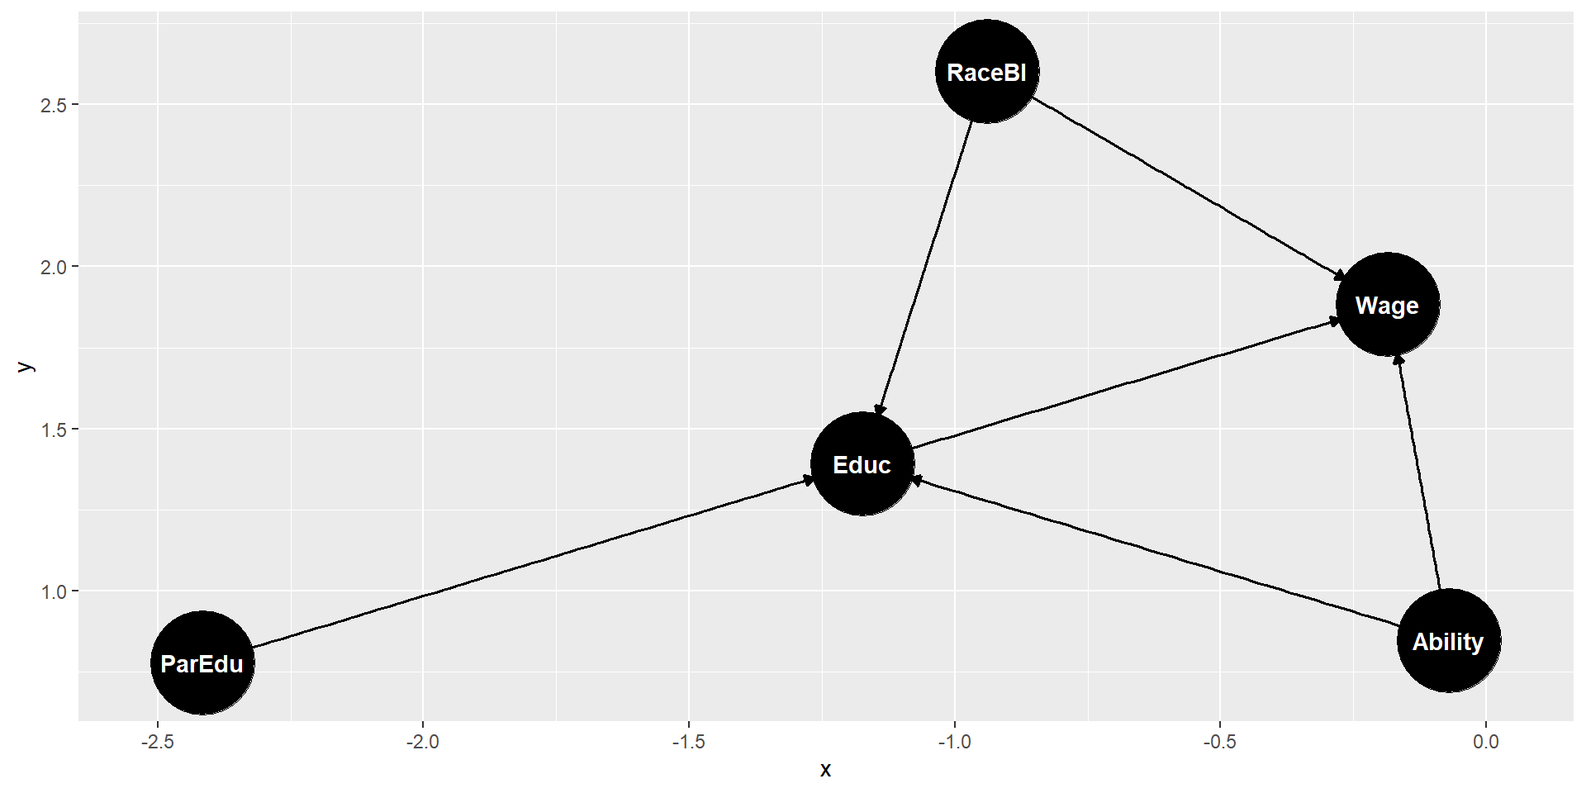
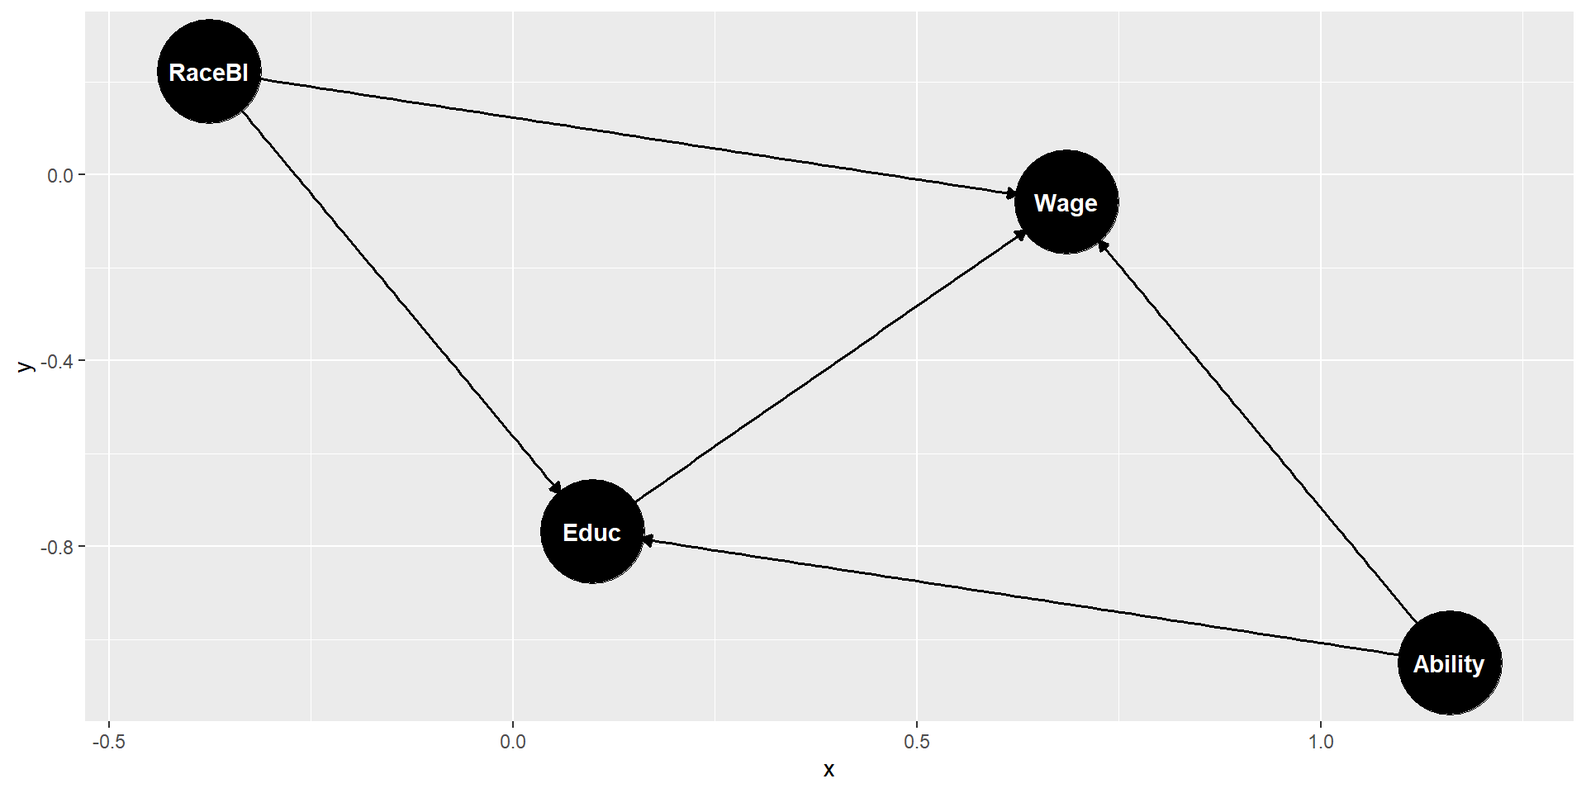
I finished the details on Gauss on the day of class.

diff --git a/GaussMarkowIBM/GaussMarkowIBM-speaker.html b/GaussMarkowIBM/GaussMarkowIBM-speaker.html
@@ -493,11 +493,11 @@
 <li><p>However, predictions are not.</p></li>
 <li><p>Coefficients <span class="math inline">\((\beta s)\)</span> are sensitive to small changes in data.</p></li>
 </ul>
-<p><strong>Identify:</strong> VIF between an independent variables <span class="math inline">\(i\)</span> regressed on all other variables should be less than <span class="math inline">\(10\)</span> (some authors use less than 5): <span class="math inline">\(VIF=\frac{1}{1-R^2_{i}}\)</span></p>
+<p><strong>Identify:</strong> VIF between an independent variables <span class="math inline">\(i\)</span> regressed on all other variables should be less than <span class="math inline">\(10\)</span> (some authors use less than 5): <span class="math inline">\(VIF_i=\frac{1}{1-R^2_{i}}\)</span></p>
 <p><strong>Remedy:</strong></p>
 <ul>
 <li><p>Do nothing</p></li>
-<li><p>Eliminate variable(s) that are correlated with others step wise (!)</p></li>
+<li><p>Eliminate variable(s) that are correlated with others — step wise (!)</p></li>
 <li><p>Others</p></li>
 </ul>
 </section>
@@ -708,7 +708,7 @@ F-statistic:  38.8 on 3 and 718 DF,  p-value: &lt; 2.2e-16</code></pre>
 <p><strong>Endogenity:</strong> Error term is correlated with one or more of the independent (predictor) variables.</p>
 <p><strong>If not fulfilled:</strong> Coefficients <span class="math inline">\((\beta s)\)</span> are biased and inconsistent.</p>
 <p><strong>Identify:</strong> Difficult, because if estimate is biased errors are also biased and cannot be used to test for correlation with predictors.</p>
-<p>If domain knowledge indicates endegenity, try IV Regression and see the results of the <em>Durbin-Wu-Hasumann</em> (<em>DWH</em>) test.</p>
+<p>If domain knowledge indicates endegenity, try IV Regression and see the results of the <em>Durbin-Wu-Hausmann</em> (<em>DWH</em>) test.</p>
 <p><strong>Remedy:</strong></p>
 <ul>
 <li><p>Do nothing</p></li>
@@ -722,8 +722,7 @@ F-statistic:  38.8 on 3 and 718 DF,  p-value: &lt; 2.2e-16</code></pre>
 <span id="cb21-2"><a href="#cb21-2"></a><span class="fu">set.seed</span>(<span class="dv">123</span>)</span>
 <span id="cb21-3"><a href="#cb21-3"></a><span class="fu">dagify</span>(Wage<span class="sc">~</span>Educ<span class="sc">+</span>Ability<span class="sc">+</span>RaceBl,</span>
 <span id="cb21-4"><a href="#cb21-4"></a>       Educ<span class="sc">~</span>Ability,</span>
-<span id="cb21-5"><a href="#cb21-5"></a>       Educ<span class="sc">~</span>ParEdu,</span>
-<span id="cb21-6"><a href="#cb21-6"></a>       Educ<span class="sc">~</span>RaceBl) <span class="sc">|&gt;</span> <span class="fu">ggdag</span>(<span class="at">node_size =</span> <span class="dv">22</span>)</span></code><button title="Copy to Clipboard" class="code-copy-button"><i class="bi"></i></button></pre></div>
+<span id="cb21-5"><a href="#cb21-5"></a>       Educ<span class="sc">~</span>RaceBl) <span class="sc">|&gt;</span> <span class="fu">ggdag</span>(<span class="at">node_size =</span> <span class="dv">22</span>)</span></code><button title="Copy to Clipboard" class="code-copy-button"><i class="bi"></i></button></pre></div>
 </div>
 
 </section>
@@ -822,8 +821,15 @@ F-statistic: 47.31 on 2 and 719 DF,  p-value: &lt; 2.2e-16</code></pre>
 <h2>Heteroscedasticity</h2>
 <h3 id="overview">Overview</h3>
 <p><strong>If not fulfilled:</strong> Standard errors and thus P values are incorrect.</p>
-<p><strong>Identify:</strong> Visual inspection of residuals. White test.</p>
-<p><strong>Remedy:</strong> White robust standard errors</p>
+<p><strong>Identify:</strong></p>
+<ul>
+<li><p>Visual inspection of residuals.</p></li>
+<li><p>White test.</p></li>
+</ul>
+<p><strong>Remedy:</strong> - White robust standard errors</p>
+<ul>
+<li>Generalized Least Square (weighs observation with variance, if it is known.)</li>
+</ul>
 </section>
 <section id="heteroscedasticity-1" class="slide level2">
 <h2>Heteroscedasticity</h2>
@@ -834,8 +840,9 @@ F-statistic: 47.31 on 2 and 719 DF,  p-value: &lt; 2.2e-16</code></pre>
 <summary>Code</summary>
 <div class="sourceCode cell-code" id="cb27"><pre class="sourceCode numberSource r number-lines code-with-copy"><code class="sourceCode r"><span id="cb27-1"><a href="#cb27-1"></a>DataPlot<span class="ot">=</span><span class="fu">augment</span>(ModelWageEdiIV)</span>
 <span id="cb27-2"><a href="#cb27-2"></a></span>
-<span id="cb27-3"><a href="#cb27-3"></a><span class="fu">ggplot</span>(DataPlot, <span class="fu">aes</span>(<span class="at">x=</span>LogWage, <span class="at">y=</span>.resid))<span class="sc">+</span></span>
-<span id="cb27-4"><a href="#cb27-4"></a>  <span class="fu">geom_point</span>(<span class="at">alpha=</span><span class="fl">0.2</span>)</span></code><button title="Copy to Clipboard" class="code-copy-button"><i class="bi"></i></button></pre></div>
+<span id="cb27-3"><a href="#cb27-3"></a><span class="fu">ggplot</span>(DataPlot, <span class="fu">aes</span>(<span class="at">x=</span>,.fitted, <span class="at">y=</span>.resid))<span class="sc">+</span></span>
+<span id="cb27-4"><a href="#cb27-4"></a>  <span class="fu">geom_point</span>(<span class="at">alpha=</span><span class="fl">0.2</span>)<span class="sc">+</span></span>
+<span id="cb27-5"><a href="#cb27-5"></a>  <span class="fu">labs</span>(<span class="at">x =</span> <span class="st">"LogWage (estimated)"</span>)</span></code><button title="Copy to Clipboard" class="code-copy-button"><i class="bi"></i></button></pre></div>
 </details>
 
 </div>
@@ -859,24 +866,25 @@ F-statistic: 47.31 on 2 and 719 DF,  p-value: &lt; 2.2e-16</code></pre>
 <details>
 <summary>Code</summary>
 <div class="sourceCode cell-code" id="cb29"><pre class="sourceCode numberSource r number-lines code-with-copy"><code class="sourceCode r"><span id="cb29-1"><a href="#cb29-1"></a>DataPlot<span class="ot">=</span><span class="fu">augment</span>(ModelHouses) <span class="sc">|&gt;</span> </span>
-<span id="cb29-2"><a href="#cb29-2"></a>         <span class="fu">mutate</span>(<span class="at">Category=</span><span class="fu">case_when</span>(Price<span class="sc">&lt;</span><span class="dv">500000</span><span class="sc">~</span><span class="dv">1</span>,</span>
-<span id="cb29-3"><a href="#cb29-3"></a>                                  Price<span class="sc">&lt;</span><span class="dv">1000000</span><span class="sc">~</span><span class="dv">2</span>,</span>
-<span id="cb29-4"><a href="#cb29-4"></a>                                  Price<span class="sc">&lt;</span><span class="dv">1500000</span><span class="sc">~</span><span class="dv">3</span>,</span>
-<span id="cb29-5"><a href="#cb29-5"></a>                                  Price<span class="sc">&lt;</span><span class="dv">2000000</span><span class="sc">~</span><span class="dv">4</span>,</span>
-<span id="cb29-6"><a href="#cb29-6"></a>                                  Price<span class="sc">&lt;</span><span class="dv">2500000</span><span class="sc">~</span><span class="dv">5</span>,</span>
-<span id="cb29-7"><a href="#cb29-7"></a>                                  Price<span class="sc">&lt;</span><span class="dv">3000000</span><span class="sc">~</span><span class="dv">6</span>,</span>
+<span id="cb29-2"><a href="#cb29-2"></a>         <span class="fu">mutate</span>(<span class="at">Category=</span><span class="fu">case_when</span>(.fitted<span class="sc">&lt;</span><span class="dv">500000</span><span class="sc">~</span><span class="dv">1</span>,</span>
+<span id="cb29-3"><a href="#cb29-3"></a>                                  .fitted<span class="sc">&lt;</span><span class="dv">1000000</span><span class="sc">~</span><span class="dv">2</span>,</span>
+<span id="cb29-4"><a href="#cb29-4"></a>                                  .fitted<span class="sc">&lt;</span><span class="dv">1500000</span><span class="sc">~</span><span class="dv">3</span>,</span>
+<span id="cb29-5"><a href="#cb29-5"></a>                                  .fitted<span class="sc">&lt;</span><span class="dv">2000000</span><span class="sc">~</span><span class="dv">4</span>,</span>
+<span id="cb29-6"><a href="#cb29-6"></a>                                  .fitted<span class="sc">&lt;</span><span class="dv">2500000</span><span class="sc">~</span><span class="dv">5</span>,</span>
+<span id="cb29-7"><a href="#cb29-7"></a>                                  .fitted<span class="sc">&lt;</span><span class="dv">3000000</span><span class="sc">~</span><span class="dv">6</span>,</span>
 <span id="cb29-8"><a href="#cb29-8"></a>                                  <span class="cn">TRUE</span><span class="sc">~</span><span class="dv">7</span>)) <span class="sc">|&gt;</span></span>
 <span id="cb29-9"><a href="#cb29-9"></a>         <span class="fu">group_by</span>(Category) <span class="sc">|&gt;</span>  </span>
 <span id="cb29-10"><a href="#cb29-10"></a>         <span class="fu">mutate</span>(<span class="at">TwoSDHigh=</span><span class="fu">mean</span>(.resid)<span class="sc">+</span><span class="dv">2</span><span class="sc">*</span><span class="fu">sd</span>(.resid)) <span class="sc">|&gt;</span> </span>
 <span id="cb29-11"><a href="#cb29-11"></a>         <span class="fu">mutate</span>(<span class="at">TwoSDLow=</span><span class="fu">mean</span>(.resid)<span class="sc">-</span><span class="dv">2</span><span class="sc">*</span><span class="fu">sd</span>(.resid))</span>
 <span id="cb29-12"><a href="#cb29-12"></a></span>
 <span id="cb29-13"><a href="#cb29-13"></a><span class="fu">ggplot</span>(DataPlot)<span class="sc">+</span></span>
-<span id="cb29-14"><a href="#cb29-14"></a>  <span class="fu">geom_point</span>(<span class="fu">aes</span>(<span class="at">x=</span>Price, <span class="at">y=</span>.resid, <span class="at">color=</span><span class="st">"Residuals"</span>), <span class="at">alpha=</span><span class="fl">0.2</span>)<span class="sc">+</span></span>
-<span id="cb29-15"><a href="#cb29-15"></a>  <span class="fu">geom_point</span>(<span class="fu">aes</span>(<span class="at">x=</span>Price, <span class="at">y=</span>TwoSDLow, <span class="at">color=</span><span class="st">"Mean - 2 SD"</span>))<span class="sc">+</span></span>
-<span id="cb29-16"><a href="#cb29-16"></a>  <span class="fu">geom_point</span>(<span class="fu">aes</span>(<span class="at">x=</span>Price, <span class="at">y=</span>TwoSDHigh, <span class="at">color=</span><span class="st">"Mean + 2 SD"</span>))<span class="sc">+</span></span>
+<span id="cb29-14"><a href="#cb29-14"></a>  <span class="fu">geom_point</span>(<span class="fu">aes</span>(<span class="at">x=</span>.fitted, <span class="at">y=</span>.resid, <span class="at">color=</span><span class="st">"Residuals"</span>), <span class="at">alpha=</span><span class="fl">0.2</span>)<span class="sc">+</span></span>
+<span id="cb29-15"><a href="#cb29-15"></a>  <span class="fu">geom_point</span>(<span class="fu">aes</span>(<span class="at">x=</span>.fitted, <span class="at">y=</span>TwoSDLow, <span class="at">color=</span><span class="st">"Mean - 2 SD"</span>))<span class="sc">+</span></span>
+<span id="cb29-16"><a href="#cb29-16"></a>  <span class="fu">geom_point</span>(<span class="fu">aes</span>(<span class="at">x=</span>.fitted, <span class="at">y=</span>TwoSDHigh, <span class="at">color=</span><span class="st">"Mean + 2 SD"</span>))<span class="sc">+</span></span>
 <span id="cb29-17"><a href="#cb29-17"></a>  <span class="fu">scale_color_manual</span>(<span class="at">values =</span> <span class="fu">c</span>(<span class="st">"Residuals"</span> <span class="ot">=</span> <span class="st">"black"</span>, <span class="st">"Mean - 2 SD"</span> <span class="ot">=</span> <span class="st">"orange"</span>, <span class="st">"Mean + 2 SD"</span> <span class="ot">=</span> <span class="st">"red"</span>)) <span class="sc">+</span></span>
-<span id="cb29-18"><a href="#cb29-18"></a>  <span class="fu">scale_x_continuous</span>(<span class="at">limits =</span> <span class="fu">c</span>(<span class="dv">0</span>,<span class="dv">3000000</span>))<span class="sc">+</span></span>
-<span id="cb29-19"><a href="#cb29-19"></a>  <span class="fu">scale_y_continuous</span>(<span class="at">limits =</span> <span class="fu">c</span>(<span class="sc">-</span><span class="dv">2000000</span>,<span class="dv">3000000</span>))</span></code><button title="Copy to Clipboard" class="code-copy-button"><i class="bi"></i></button></pre></div>
+<span id="cb29-18"><a href="#cb29-18"></a>  <span class="fu">scale_x_continuous</span>(<span class="at">limits =</span> <span class="fu">c</span>(<span class="dv">0</span>,<span class="dv">2500000</span>))<span class="sc">+</span></span>
+<span id="cb29-19"><a href="#cb29-19"></a>  <span class="fu">scale_y_continuous</span>(<span class="at">limits =</span> <span class="fu">c</span>(<span class="sc">-</span><span class="dv">2000000</span>,<span class="dv">5000000</span>))<span class="sc">+</span></span>
+<span id="cb29-20"><a href="#cb29-20"></a>  <span class="fu">labs</span>(<span class="at">x =</span> <span class="st">"Price (estimated)"</span>)</span></code><button title="Copy to Clipboard" class="code-copy-button"><i class="bi"></i></button></pre></div>
 </details>
 
 </div>

diff --git a/GaussMarkowIBM/GaussMarkowIBM.html b/GaussMarkowIBM/GaussMarkowIBM.html
@@ -493,11 +493,11 @@
 <li><p>However, predictions are not.</p></li>
 <li><p>Coefficients <span class="math inline">\((\beta s)\)</span> are sensitive to small changes in data.</p></li>
 </ul>
-<p><strong>Identify:</strong> VIF between an independent variables <span class="math inline">\(i\)</span> regressed on all other variables should be less than <span class="math inline">\(10\)</span> (some authors use less than 5): <span class="math inline">\(VIF=\frac{1}{1-R^2_{i}}\)</span></p>
+<p><strong>Identify:</strong> VIF between an independent variables <span class="math inline">\(i\)</span> regressed on all other variables should be less than <span class="math inline">\(10\)</span> (some authors use less than 5): <span class="math inline">\(VIF_i=\frac{1}{1-R^2_{i}}\)</span></p>
 <p><strong>Remedy:</strong></p>
 <ul>
 <li><p>Do nothing</p></li>
-<li><p>Eliminate variable(s) that are correlated with others step wise (!)</p></li>
+<li><p>Eliminate variable(s) that are correlated with others — step wise (!)</p></li>
 <li><p>Others</p></li>
 </ul>
 </section>
@@ -708,7 +708,7 @@ F-statistic:  38.8 on 3 and 718 DF,  p-value: &lt; 2.2e-16</code></pre>
 <p><strong>Endogenity:</strong> Error term is correlated with one or more of the independent (predictor) variables.</p>
 <p><strong>If not fulfilled:</strong> Coefficients <span class="math inline">\((\beta s)\)</span> are biased and inconsistent.</p>
 <p><strong>Identify:</strong> Difficult, because if estimate is biased errors are also biased and cannot be used to test for correlation with predictors.</p>
-<p>If domain knowledge indicates endegenity, try IV Regression and see the results of the <em>Durbin-Wu-Hasumann</em> (<em>DWH</em>) test.</p>
+<p>If domain knowledge indicates endegenity, try IV Regression and see the results of the <em>Durbin-Wu-Hausmann</em> (<em>DWH</em>) test.</p>
 <p><strong>Remedy:</strong></p>
 <ul>
 <li><p>Do nothing</p></li>
@@ -722,8 +722,7 @@ F-statistic:  38.8 on 3 and 718 DF,  p-value: &lt; 2.2e-16</code></pre>
 <span id="cb21-2"><a href="#cb21-2"></a><span class="fu">set.seed</span>(<span class="dv">123</span>)</span>
 <span id="cb21-3"><a href="#cb21-3"></a><span class="fu">dagify</span>(Wage<span class="sc">~</span>Educ<span class="sc">+</span>Ability<span class="sc">+</span>RaceBl,</span>
 <span id="cb21-4"><a href="#cb21-4"></a>       Educ<span class="sc">~</span>Ability,</span>
-<span id="cb21-5"><a href="#cb21-5"></a>       Educ<span class="sc">~</span>ParEdu,</span>
-<span id="cb21-6"><a href="#cb21-6"></a>       Educ<span class="sc">~</span>RaceBl) <span class="sc">|&gt;</span> <span class="fu">ggdag</span>(<span class="at">node_size =</span> <span class="dv">22</span>)</span></code><button title="Copy to Clipboard" class="code-copy-button"><i class="bi"></i></button></pre></div>
+<span id="cb21-5"><a href="#cb21-5"></a>       Educ<span class="sc">~</span>RaceBl) <span class="sc">|&gt;</span> <span class="fu">ggdag</span>(<span class="at">node_size =</span> <span class="dv">22</span>)</span></code><button title="Copy to Clipboard" class="code-copy-button"><i class="bi"></i></button></pre></div>
 </div>
 
 </section>
@@ -822,8 +821,15 @@ F-statistic: 47.31 on 2 and 719 DF,  p-value: &lt; 2.2e-16</code></pre>
 <h2>Heteroscedasticity</h2>
 <h3 id="overview">Overview</h3>
 <p><strong>If not fulfilled:</strong> Standard errors and thus P values are incorrect.</p>
-<p><strong>Identify:</strong> Visual inspection of residuals. White test.</p>
-<p><strong>Remedy:</strong> White robust standard errors</p>
+<p><strong>Identify:</strong></p>
+<ul>
+<li><p>Visual inspection of residuals.</p></li>
+<li><p>White test.</p></li>
+</ul>
+<p><strong>Remedy:</strong> - White robust standard errors</p>
+<ul>
+<li>Generalized Least Square (weighs observation with variance, if it is known.)</li>
+</ul>
 </section>
 <section id="heteroscedasticity-1" class="slide level2">
 <h2>Heteroscedasticity</h2>
@@ -834,8 +840,9 @@ F-statistic: 47.31 on 2 and 719 DF,  p-value: &lt; 2.2e-16</code></pre>
 <summary>Code</summary>
 <div class="sourceCode cell-code" id="cb27"><pre class="sourceCode numberSource r number-lines code-with-copy"><code class="sourceCode r"><span id="cb27-1"><a href="#cb27-1"></a>DataPlot<span class="ot">=</span><span class="fu">augment</span>(ModelWageEdiIV)</span>
 <span id="cb27-2"><a href="#cb27-2"></a></span>
-<span id="cb27-3"><a href="#cb27-3"></a><span class="fu">ggplot</span>(DataPlot, <span class="fu">aes</span>(<span class="at">x=</span>LogWage, <span class="at">y=</span>.resid))<span class="sc">+</span></span>
-<span id="cb27-4"><a href="#cb27-4"></a>  <span class="fu">geom_point</span>(<span class="at">alpha=</span><span class="fl">0.2</span>)</span></code><button title="Copy to Clipboard" class="code-copy-button"><i class="bi"></i></button></pre></div>
+<span id="cb27-3"><a href="#cb27-3"></a><span class="fu">ggplot</span>(DataPlot, <span class="fu">aes</span>(<span class="at">x=</span>,.fitted, <span class="at">y=</span>.resid))<span class="sc">+</span></span>
+<span id="cb27-4"><a href="#cb27-4"></a>  <span class="fu">geom_point</span>(<span class="at">alpha=</span><span class="fl">0.2</span>)<span class="sc">+</span></span>
+<span id="cb27-5"><a href="#cb27-5"></a>  <span class="fu">labs</span>(<span class="at">x =</span> <span class="st">"LogWage (estimated)"</span>)</span></code><button title="Copy to Clipboard" class="code-copy-button"><i class="bi"></i></button></pre></div>
 </details>
 
 </div>
@@ -859,24 +866,25 @@ F-statistic: 47.31 on 2 and 719 DF,  p-value: &lt; 2.2e-16</code></pre>
 <details>
 <summary>Code</summary>
 <div class="sourceCode cell-code" id="cb29"><pre class="sourceCode numberSource r number-lines code-with-copy"><code class="sourceCode r"><span id="cb29-1"><a href="#cb29-1"></a>DataPlot<span class="ot">=</span><span class="fu">augment</span>(ModelHouses) <span class="sc">|&gt;</span> </span>
-<span id="cb29-2"><a href="#cb29-2"></a>         <span class="fu">mutate</span>(<span class="at">Category=</span><span class="fu">case_when</span>(Price<span class="sc">&lt;</span><span class="dv">500000</span><span class="sc">~</span><span class="dv">1</span>,</span>
-<span id="cb29-3"><a href="#cb29-3"></a>                                  Price<span class="sc">&lt;</span><span class="dv">1000000</span><span class="sc">~</span><span class="dv">2</span>,</span>
-<span id="cb29-4"><a href="#cb29-4"></a>                                  Price<span class="sc">&lt;</span><span class="dv">1500000</span><span class="sc">~</span><span class="dv">3</span>,</span>
-<span id="cb29-5"><a href="#cb29-5"></a>                                  Price<span class="sc">&lt;</span><span class="dv">2000000</span><span class="sc">~</span><span class="dv">4</span>,</span>
-<span id="cb29-6"><a href="#cb29-6"></a>                                  Price<span class="sc">&lt;</span><span class="dv">2500000</span><span class="sc">~</span><span class="dv">5</span>,</span>
-<span id="cb29-7"><a href="#cb29-7"></a>                                  Price<span class="sc">&lt;</span><span class="dv">3000000</span><span class="sc">~</span><span class="dv">6</span>,</span>
+<span id="cb29-2"><a href="#cb29-2"></a>         <span class="fu">mutate</span>(<span class="at">Category=</span><span class="fu">case_when</span>(.fitted<span class="sc">&lt;</span><span class="dv">500000</span><span class="sc">~</span><span class="dv">1</span>,</span>
+<span id="cb29-3"><a href="#cb29-3"></a>                                  .fitted<span class="sc">&lt;</span><span class="dv">1000000</span><span class="sc">~</span><span class="dv">2</span>,</span>
+<span id="cb29-4"><a href="#cb29-4"></a>                                  .fitted<span class="sc">&lt;</span><span class="dv">1500000</span><span class="sc">~</span><span class="dv">3</span>,</span>
+<span id="cb29-5"><a href="#cb29-5"></a>                                  .fitted<span class="sc">&lt;</span><span class="dv">2000000</span><span class="sc">~</span><span class="dv">4</span>,</span>
+<span id="cb29-6"><a href="#cb29-6"></a>                                  .fitted<span class="sc">&lt;</span><span class="dv">2500000</span><span class="sc">~</span><span class="dv">5</span>,</span>
+<span id="cb29-7"><a href="#cb29-7"></a>                                  .fitted<span class="sc">&lt;</span><span class="dv">3000000</span><span class="sc">~</span><span class="dv">6</span>,</span>
 <span id="cb29-8"><a href="#cb29-8"></a>                                  <span class="cn">TRUE</span><span class="sc">~</span><span class="dv">7</span>)) <span class="sc">|&gt;</span></span>
 <span id="cb29-9"><a href="#cb29-9"></a>         <span class="fu">group_by</span>(Category) <span class="sc">|&gt;</span>  </span>
 <span id="cb29-10"><a href="#cb29-10"></a>         <span class="fu">mutate</span>(<span class="at">TwoSDHigh=</span><span class="fu">mean</span>(.resid)<span class="sc">+</span><span class="dv">2</span><span class="sc">*</span><span class="fu">sd</span>(.resid)) <span class="sc">|&gt;</span> </span>
 <span id="cb29-11"><a href="#cb29-11"></a>         <span class="fu">mutate</span>(<span class="at">TwoSDLow=</span><span class="fu">mean</span>(.resid)<span class="sc">-</span><span class="dv">2</span><span class="sc">*</span><span class="fu">sd</span>(.resid))</span>
 <span id="cb29-12"><a href="#cb29-12"></a></span>
 <span id="cb29-13"><a href="#cb29-13"></a><span class="fu">ggplot</span>(DataPlot)<span class="sc">+</span></span>
-<span id="cb29-14"><a href="#cb29-14"></a>  <span class="fu">geom_point</span>(<span class="fu">aes</span>(<span class="at">x=</span>Price, <span class="at">y=</span>.resid, <span class="at">color=</span><span class="st">"Residuals"</span>), <span class="at">alpha=</span><span class="fl">0.2</span>)<span class="sc">+</span></span>
-<span id="cb29-15"><a href="#cb29-15"></a>  <span class="fu">geom_point</span>(<span class="fu">aes</span>(<span class="at">x=</span>Price, <span class="at">y=</span>TwoSDLow, <span class="at">color=</span><span class="st">"Mean - 2 SD"</span>))<span class="sc">+</span></span>
-<span id="cb29-16"><a href="#cb29-16"></a>  <span class="fu">geom_point</span>(<span class="fu">aes</span>(<span class="at">x=</span>Price, <span class="at">y=</span>TwoSDHigh, <span class="at">color=</span><span class="st">"Mean + 2 SD"</span>))<span class="sc">+</span></span>
+<span id="cb29-14"><a href="#cb29-14"></a>  <span class="fu">geom_point</span>(<span class="fu">aes</span>(<span class="at">x=</span>.fitted, <span class="at">y=</span>.resid, <span class="at">color=</span><span class="st">"Residuals"</span>), <span class="at">alpha=</span><span class="fl">0.2</span>)<span class="sc">+</span></span>
+<span id="cb29-15"><a href="#cb29-15"></a>  <span class="fu">geom_point</span>(<span class="fu">aes</span>(<span class="at">x=</span>.fitted, <span class="at">y=</span>TwoSDLow, <span class="at">color=</span><span class="st">"Mean - 2 SD"</span>))<span class="sc">+</span></span>
+<span id="cb29-16"><a href="#cb29-16"></a>  <span class="fu">geom_point</span>(<span class="fu">aes</span>(<span class="at">x=</span>.fitted, <span class="at">y=</span>TwoSDHigh, <span class="at">color=</span><span class="st">"Mean + 2 SD"</span>))<span class="sc">+</span></span>
 <span id="cb29-17"><a href="#cb29-17"></a>  <span class="fu">scale_color_manual</span>(<span class="at">values =</span> <span class="fu">c</span>(<span class="st">"Residuals"</span> <span class="ot">=</span> <span class="st">"black"</span>, <span class="st">"Mean - 2 SD"</span> <span class="ot">=</span> <span class="st">"orange"</span>, <span class="st">"Mean + 2 SD"</span> <span class="ot">=</span> <span class="st">"red"</span>)) <span class="sc">+</span></span>
-<span id="cb29-18"><a href="#cb29-18"></a>  <span class="fu">scale_x_continuous</span>(<span class="at">limits =</span> <span class="fu">c</span>(<span class="dv">0</span>,<span class="dv">3000000</span>))<span class="sc">+</span></span>
-<span id="cb29-19"><a href="#cb29-19"></a>  <span class="fu">scale_y_continuous</span>(<span class="at">limits =</span> <span class="fu">c</span>(<span class="sc">-</span><span class="dv">2000000</span>,<span class="dv">3000000</span>))</span></code><button title="Copy to Clipboard" class="code-copy-button"><i class="bi"></i></button></pre></div>
+<span id="cb29-18"><a href="#cb29-18"></a>  <span class="fu">scale_x_continuous</span>(<span class="at">limits =</span> <span class="fu">c</span>(<span class="dv">0</span>,<span class="dv">2500000</span>))<span class="sc">+</span></span>
+<span id="cb29-19"><a href="#cb29-19"></a>  <span class="fu">scale_y_continuous</span>(<span class="at">limits =</span> <span class="fu">c</span>(<span class="sc">-</span><span class="dv">2000000</span>,<span class="dv">5000000</span>))<span class="sc">+</span></span>
+<span id="cb29-20"><a href="#cb29-20"></a>  <span class="fu">labs</span>(<span class="at">x =</span> <span class="st">"Price (estimated)"</span>)</span></code><button title="Copy to Clipboard" class="code-copy-button"><i class="bi"></i></button></pre></div>
 </details>
 
 </div>
